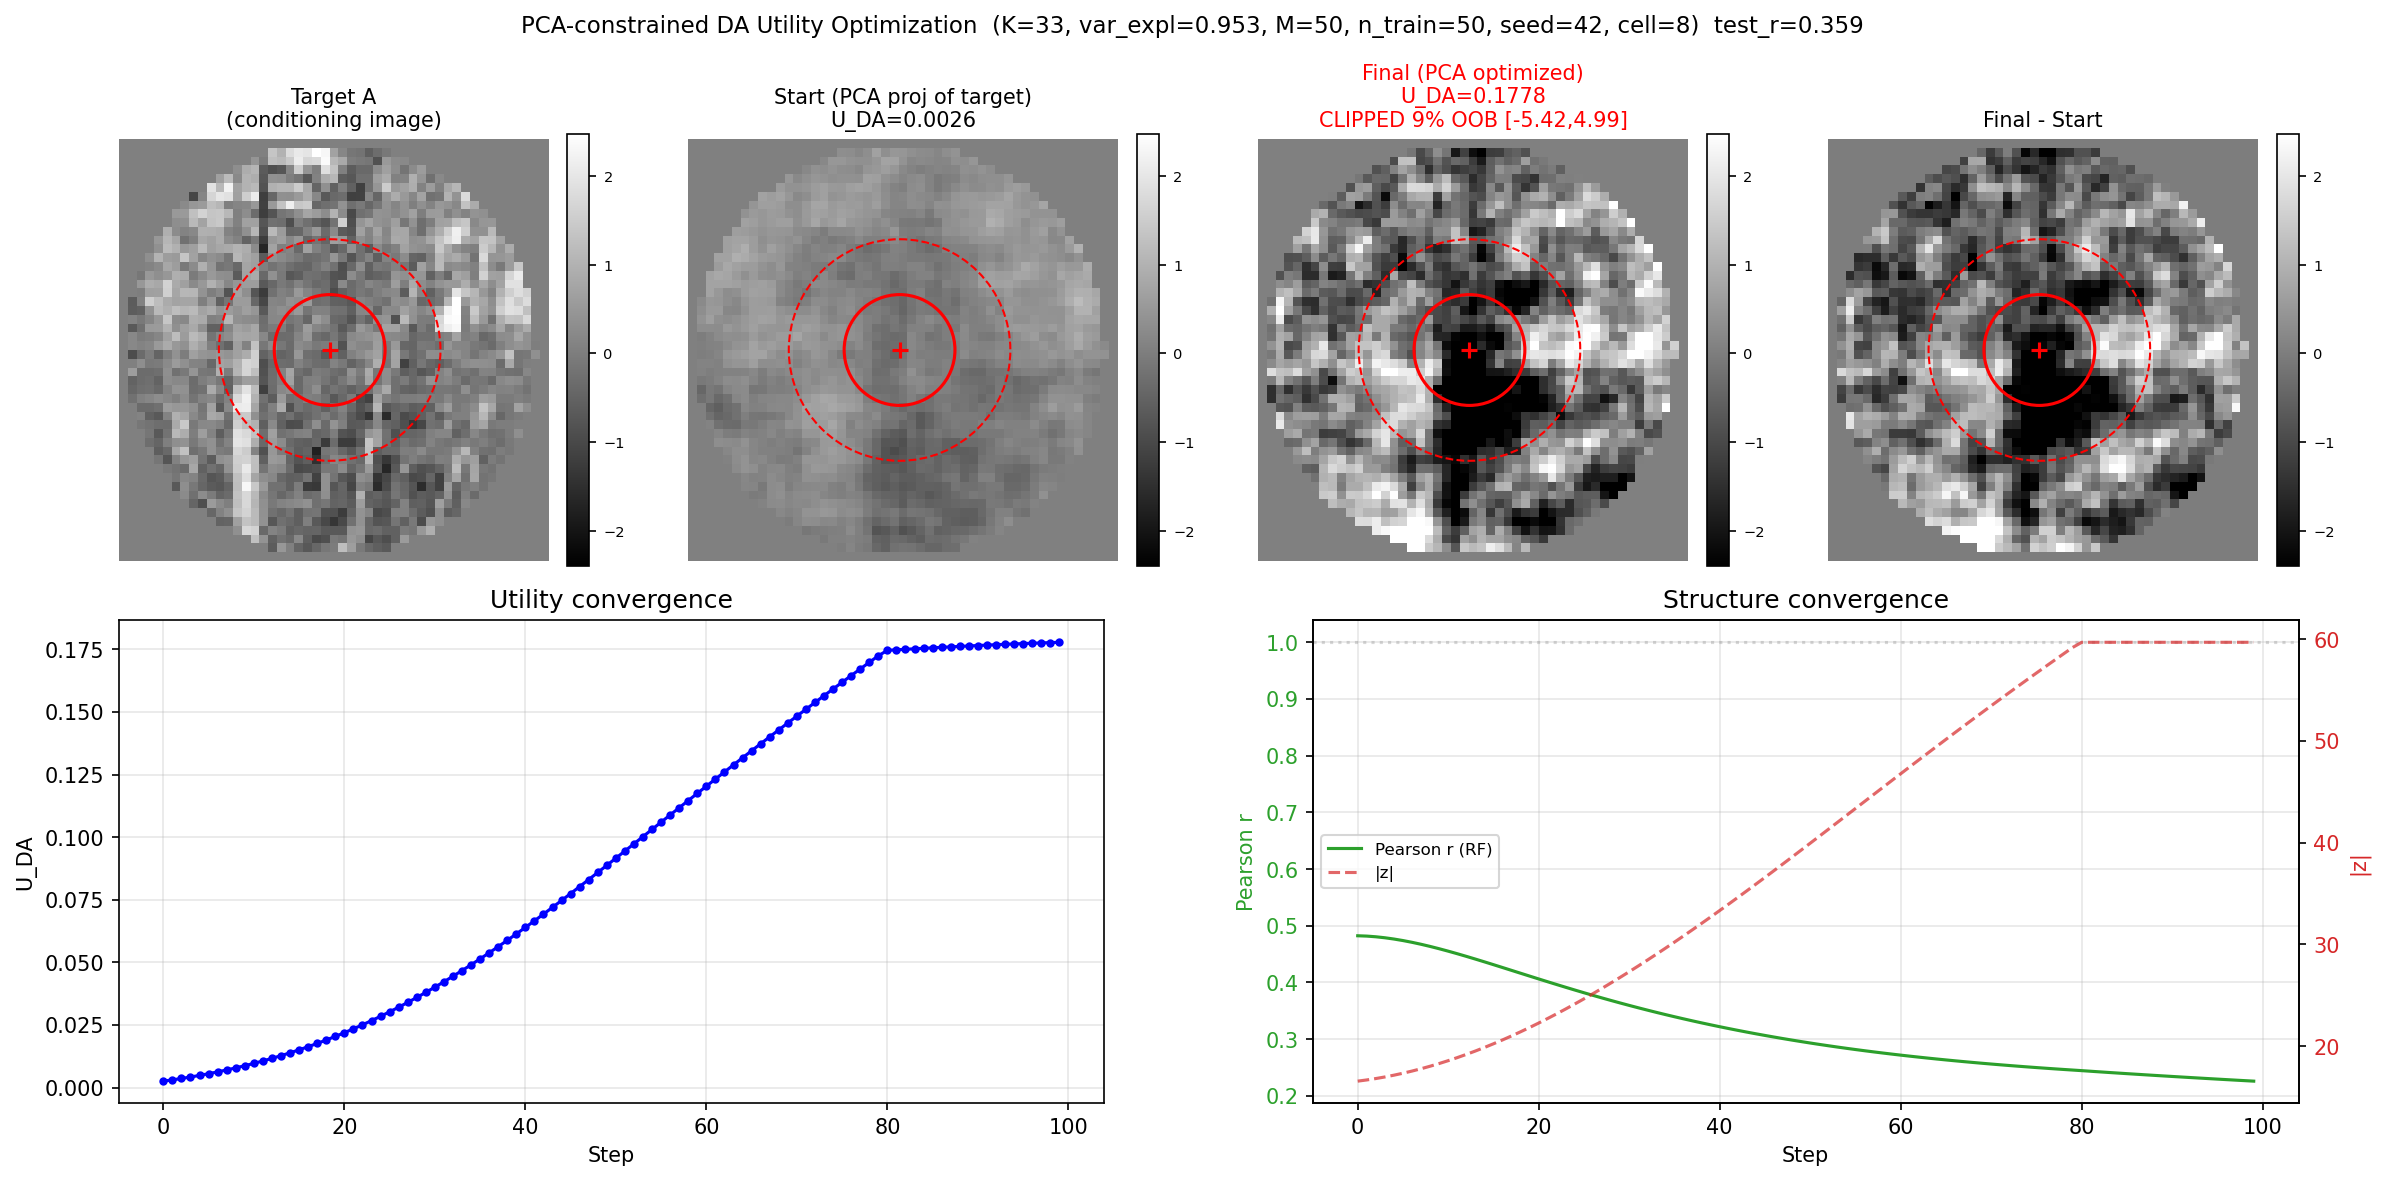
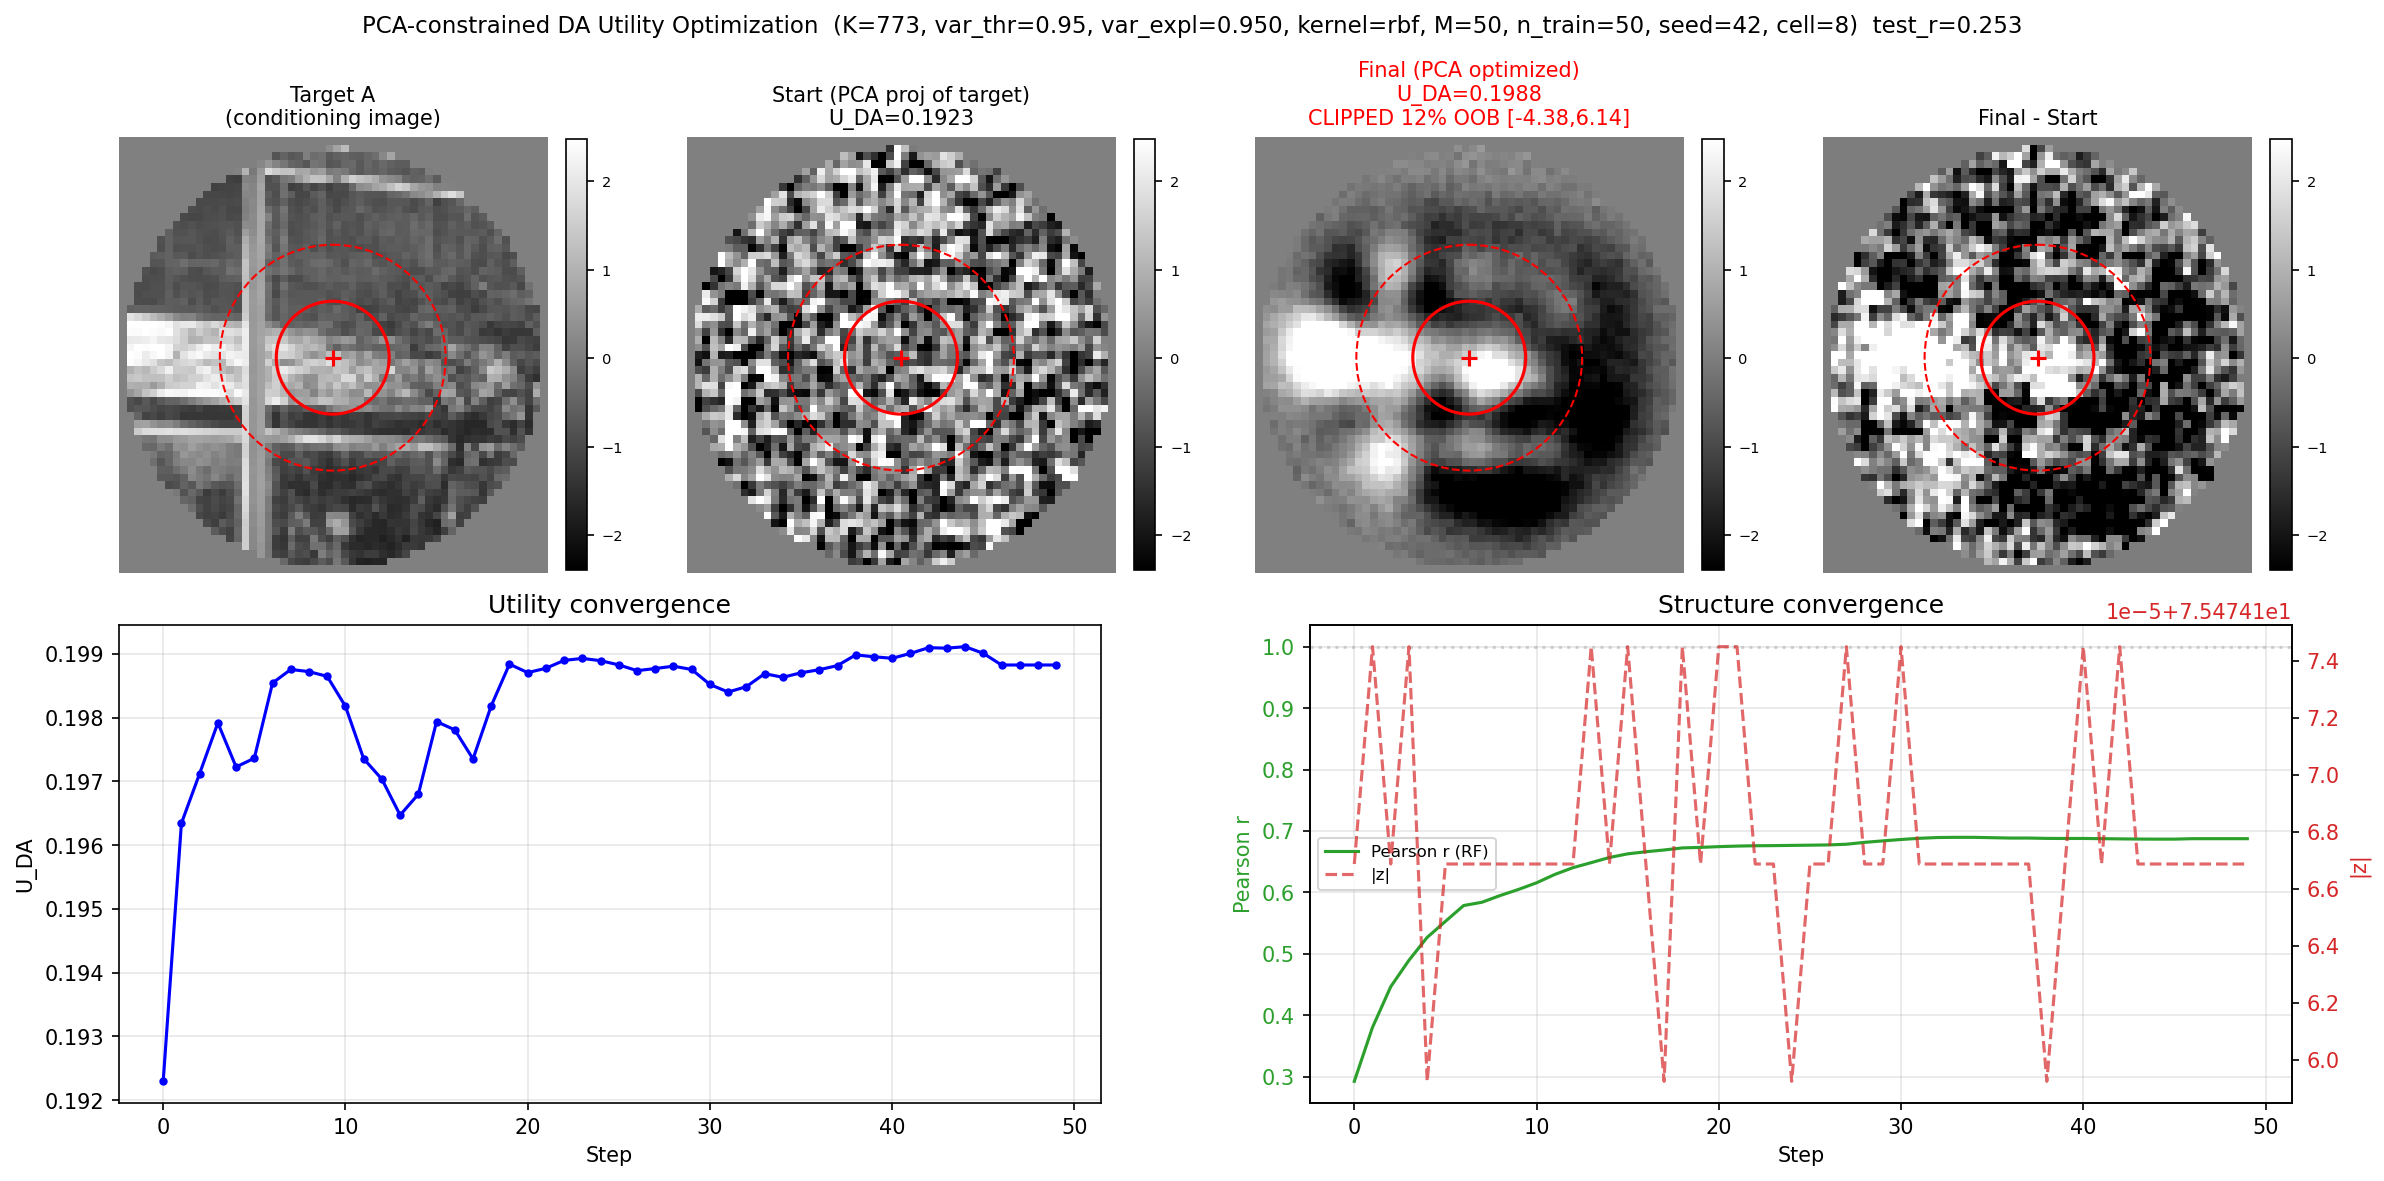
Add PCA-constrained DA utility optimization script and results

diff --git a/Spatial_GP_repo/scripts/gpytorch_porting/investigations/utility_decompositions/pca_optimization.py b/Spatial_GP_repo/scripts/gpytorch_porting/investigations/utility_decompositions/pca_optimization.py
@@ -71,13 +71,17 @@ from run_single_mode import build_config_from_defaults
 # ---------------------------------------------------------------------------
 # Investigation-specific constants (optimizer tuning, not model parameters)
 # ---------------------------------------------------------------------------
-N_STEPS = 100            # Adam optimization steps
-LR = 0.1                 # Adam learning rate (larger than LBFGS because gradient is small)
+N_STEPS = 50             # outer optimization steps
+LR = 0.5                 # LBFGS learning rate
+LBFGS_MAX_ITER = 20      # LBFGS inner iterations per step
+LBFGS_MAX_EVAL = 25      # LBFGS max function evaluations per step
+LBFGS_HISTORY_SIZE = 10  # LBFGS history size
 LOG_EVERY = 5            # print every N steps
 
 TARGET_INDEX = 0          # pool image index for target
 
 DEFAULT_VAR_THRESHOLD = 0.95  # fraction of variance to retain
+START_NOISE = 5             # noise std relative to ||z_target|| (0 = exact PCA projection)
 
 
 # ============================================================================
@@ -179,18 +183,13 @@ def image_to_pca(x_full, mu_rf, V_K, rf_mask):
 def gradient_ascent_pca(model, likelihood, z_start, x_target, mu_rf, V_K,
                         rf_mask, r_max, f_max, n_pixels, dtype, device,
                         n_steps, lr, z_max_norm=None):
-    """Adam gradient ascent maximizing U_DA in PCA space.
+    """LBFGS gradient ascent maximizing U_DA in PCA space.
 
     Optimizes z in R^K. The image is reconstructed as x* = mu + V_K @ z.
     Gradient chain: z -> V_K @ z + mu -> x_full -> kernel -> utility.
 
-    Uses Adam instead of LBFGS because the DA utility landscape is very
-    flat (gradient ~1e-5) and LBFGS's strong_wolfe line search rejects
-    all steps when function changes are below numerical noise.
-
     If z_max_norm is set, z is projected back onto the ball ||z|| <= z_max_norm
-    after each step (projected gradient ascent). This prevents the optimizer
-    from amplifying the image beyond the range of natural images.
+    after each outer step (projected gradient ascent).
 
     Args:
         z_start: (K,) initial PCA coordinates
@@ -210,7 +209,13 @@ def gradient_ascent_pca(model, likelihood, z_start, x_target, mu_rf, V_K,
     """
     z = z_start.clone().detach().requires_grad_(True)
 
-    optimizer = torch.optim.Adam([z], lr=lr)
+    optimizer = torch.optim.LBFGS(
+        [z], lr=lr,
+        max_iter=LBFGS_MAX_ITER,
+        max_eval=LBFGS_MAX_EVAL,
+        history_size=LBFGS_HISTORY_SIZE,
+        line_search_fn='strong_wolfe',
+    )
 
     history = {
         'step': [], 'utility': [], 'grad_norm': [],
@@ -218,24 +223,27 @@ def gradient_ascent_pca(model, likelihood, z_start, x_target, mu_rf, V_K,
     }
 
     for step in range(n_steps):
-        optimizer.zero_grad()
-        x_full = pca_to_image(z, mu_rf, V_K, rf_mask, n_pixels, dtype, device)
-        result = distribution_aware_utility(
-            model, likelihood,
-            x_full.unsqueeze(0),
-            x_target.unsqueeze(0),
-            r_max=r_max,
-            adaptive_r_max=False,
-            sample_lambda=False,
-        )
-        # Firing rate guard: skip step if firing rate exceeds f_max
-        mu_g = result['mu_g_marg']
-        if torch.exp(mu_g).item() > f_max:
-            print(f"  step {step}: firing rate exceeded f_max, skipping")
-            continue
-        loss = -result['utility'].squeeze()
-        loss.backward()
-        optimizer.step()
+
+        def closure():
+            optimizer.zero_grad()
+            x_full = pca_to_image(z, mu_rf, V_K, rf_mask, n_pixels, dtype, device)
+            result = distribution_aware_utility(
+                model, likelihood,
+                x_full.unsqueeze(0),
+                x_target.unsqueeze(0),
+                r_max=r_max,
+                adaptive_r_max=False,
+                sample_lambda=False,
+            )
+            # Firing rate guard
+            mu_g = result['mu_g_marg']
+            if torch.exp(mu_g).item() > f_max:
+                return torch.tensor(float('inf'), device=device)
+            loss = -result['utility'].squeeze()  # NEGATE: maximize utility
+            loss.backward()
+            return loss
+
+        optimizer.step(closure)
 
         # Project z back onto the ball ||z|| <= z_max_norm
         if z_max_norm is not None:
@@ -301,6 +309,7 @@ def gradient_ascent_pca(model, likelihood, z_start, x_target, mu_rf, V_K,
 
 def plot_results(x_target, x_start, x_final, history, rf_mask,
                  kernel, config, vmin, vmax, test_r, K, var_explained,
+                 var_threshold, kernel_type,
                  n_px_side, out_path, pct_oob=0.0, final_range=None):
     """Generate PCA optimization summary figure.
 
@@ -413,7 +422,8 @@ def plot_results(x_target, x_start, x_final, history, rf_mask,
 
     title_str = (
         f'PCA-constrained DA Utility Optimization  '
-        f'(K={K}, var_expl={var_explained:.3f}, '
+        f'(K={K}, var_thr={var_threshold:.2f}, var_expl={var_explained:.3f}, '
+        f'kernel={kernel_type}, '
         f'M={config["M"]}, n_train={config["n_train"]}, '
         f'seed={config["seed"]}, cell={config["cell"]})  '
         f'test_r={test_r:.3f}'
@@ -501,11 +511,11 @@ def main():
 
     # === Step 3: Compute PCA ===
     print("\n" + "=" * 70)
-    print("Step 3: PCA on training images (RF-masked)")
+    print("Step 3: PCA on all images (RF-masked)")
     print("=" * 70)
 
     mu_rf, V_K, eigenvalues, K, var_explained = compute_pca(
-        X_train, rf_mask,
+        X_all, rf_mask,
         var_threshold=args.var_threshold,
         n_components=args.n_components,
     )
@@ -538,17 +548,23 @@ def main():
           f"max={z_train_norms.max():.2f}, "
           f"95th percentile={z_max_norm:.2f}")
 
-    # Start from target's PCA projection -- ensures we begin in a region
-    # with meaningful utility and can test whether optimizer improves it
+    # Start from noisy version of target's PCA projection
     z_start = z_target.clone().detach()
+    if START_NOISE > 0:
+        noise_std = START_NOISE * z_target.norm().item()
+        z_start = z_start + noise_std * torch.randn_like(z_start)
+    # Clip z_start to norm boundary before optimization (avoids gradient
+    # detach from the in-loop projection on the very first step)
+    if z_max_norm is not None and z_start.norm() > z_max_norm:
+        z_start = z_start * (z_max_norm / z_start.norm())
     x_start = pca_to_image(z_start, mu_rf, V_K, rf_mask, n_pixels, dtype, device)
-    print(f"  Starting from z_target (PCA projection of target)")
+    print(f"  Starting from z_target + noise (START_NOISE={START_NOISE})")
     print(f"  ||z_start|| = {z_start.norm().item():.4f}")
     print(f"  Norm constraint: ||z|| <= {z_max_norm:.2f} (95th percentile of training)")
 
     # === Step 5: Gradient ascent ===
     print("\n" + "=" * 70)
-    print(f"Step 5: Adam gradient ascent in PCA space (K={K})")
+    print(f"Step 5: LBFGS gradient ascent in PCA space (K={K})")
     print("=" * 70)
 
     x_final, z_final, history = gradient_ascent_pca(
@@ -610,6 +626,7 @@ def main():
     plot_results(
         x_target, x_start, x_final, history, rf_mask,
         kernel, config, vmin_dataset, vmax_dataset, test_r, K, var_explained,
+        args.var_threshold, kernel_type,
         n_px_side,
         out_path=_script_dir / 'pca_optimization.png',
         pct_oob=pct_oob,

diff --git a/Spatial_GP_repo/scripts/gpytorch_porting/SESSION_LOG.md b/Spatial_GP_repo/scripts/gpytorch_porting/SESSION_LOG.md
@@ -1,5 +1,20 @@
 # Session Log
 
+## 2026-02-21: PCA and C-eigenvalue utility optimization investigation
+
+**Branch**: `pietro/pca-utility-optimization` (PCA), `pietro/c-eigen-utility-optimization` (C-eigen)
+
+**Accomplished:**
+- Orchestrated 2-agent team for parallel implementation of PCA-constrained and C-eigenspace utility optimization
+- PCA script: LBFGS optimization of z in x*=mu+V_K@z, PCA on full dataset, norm constraint, OOB detection, START_NOISE
+- C-eigen script: LBFGS optimization of z in x*=U_K@z from C matrix eigendecomposition (K=91 of 1725 dims)
+- Comparative runs: arc_cosine vs RBF, different targets and noise levels
+- Key finding: RBF well-behaved, arc_cosine suffers from norm-driven utility (projected gradient + momentum instability)
+
+**Documentation updated:** SESSION_LOG.md
+
+**Known issues:** Arc-cosine + projected gradient ascent can decrease utility for some targets (momentum/projection interaction). Not investigated further.
+
 ## 2026-02-20c: Complete Phases 3-4, consolidate utility folder
 **Branch**: `pietro/workingbranch`
 **Status**: All 4 phases complete
